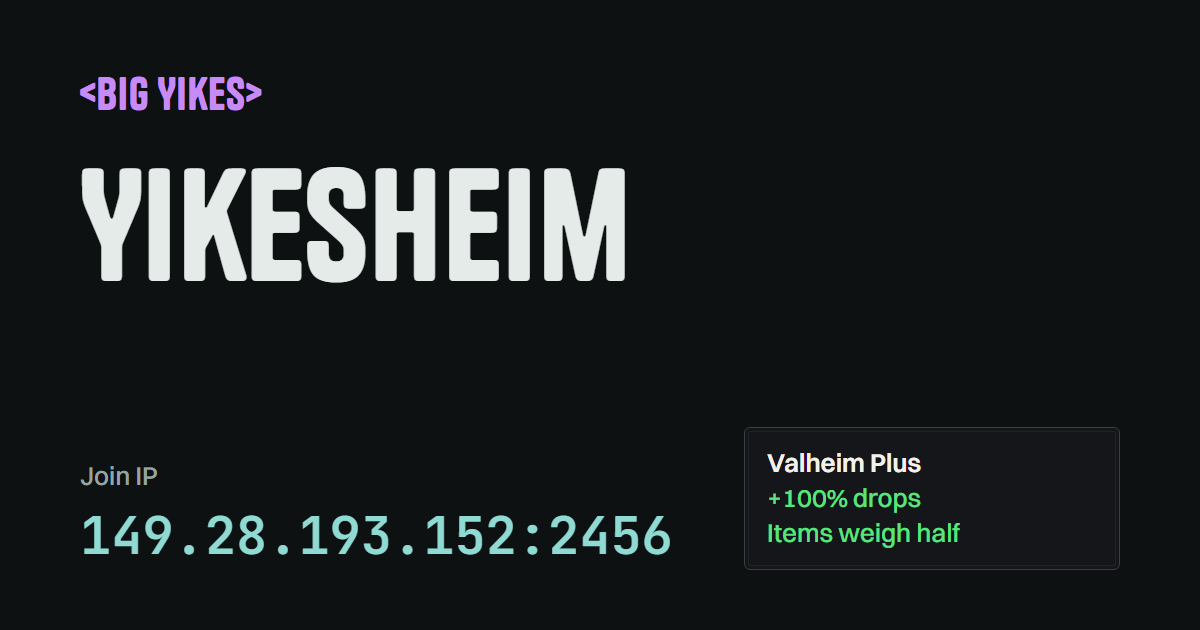
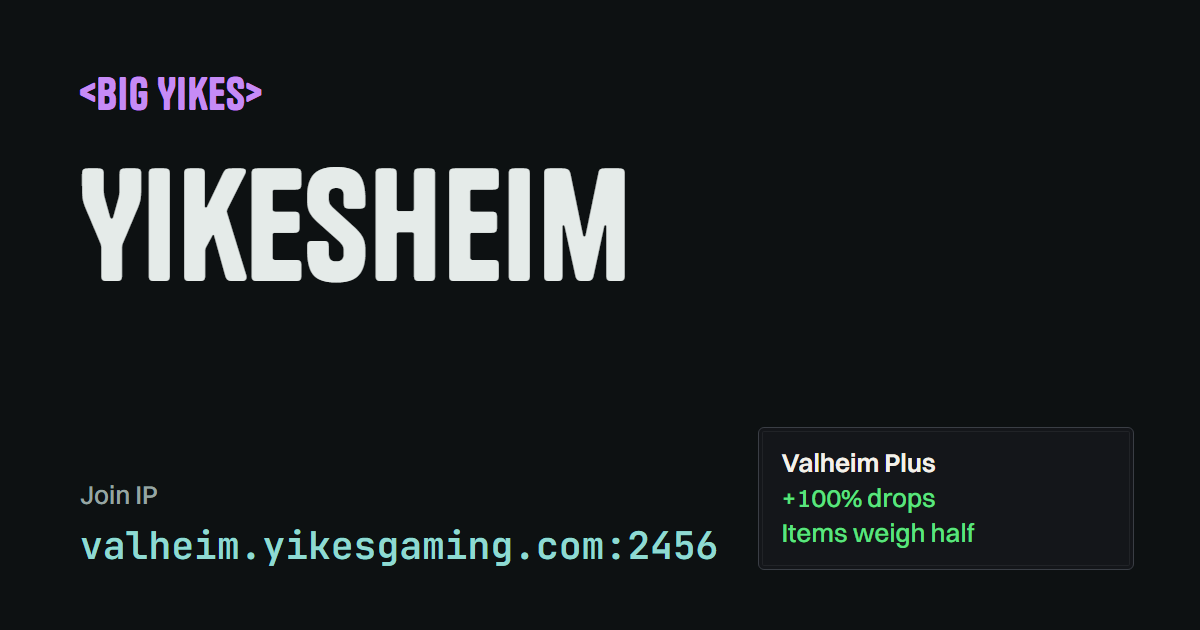
Use valheim.yikesgaming.com:2456 as the server address
- Address card, copy button and preview card use the domain name
- IP kept as a fallback in the FAQ
- Address decode animation scrambles letters and digits

Changed region(s): [[0.0617, 0.7238, 0.8325, 0.9048]]

diff --git a/valheim/index.html b/valheim/index.html
@@ -70,8 +70,8 @@
       </div>
       <div class="field">
         <div class="label" id="addr-label">Server address</div>
-        <div class="value" aria-labelledby="addr-label" data-scramble>149.28.193.152:2456</div>
-        <button class="btn" type="button" data-copy="149.28.193.152:2456" data-copy-name="Address">
+        <div class="value" aria-labelledby="addr-label" data-scramble>valheim.yikesgaming.com:2456</div>
+        <button class="btn" type="button" data-copy="valheim.yikesgaming.com:2456" data-copy-name="Address">
           <svg class="icon" aria-hidden="true" viewBox="0 0 24 24"><g fill="none" stroke="currentColor" stroke-linecap="round" stroke-linejoin="round" stroke-width="2"><path d="M7 9.667A2.667 2.667 0 0 1 9.667 7h8.666A2.667 2.667 0 0 1 21 9.667v8.666A2.667 2.667 0 0 1 18.333 21H9.667A2.667 2.667 0 0 1 7 18.333z"/><path d="M4.012 16.737A2 2 0 0 1 3 15V5c0-1.1.9-2 2-2h10c.75 0 1.158.385 1.5 1"/></g></svg>
           Copy
           <template><svg class="icon" aria-hidden="true" viewBox="0 0 24 24"><path fill="none" stroke="currentColor" stroke-linecap="round" stroke-linejoin="round" stroke-width="2" d="m5 12l5 5L20 7"/></svg> Copied</template>
@@ -144,6 +144,10 @@
     <details>
       <summary>"Incompatible version"<svg class="icon" aria-hidden="true" viewBox="0 0 24 24"><path fill="none" stroke="currentColor" stroke-linecap="round" stroke-linejoin="round" stroke-width="2" d="m6 9l6 6l6-6"/></svg></summary>
       <div><p>Steam hasn't finished updating your Valheim, or Valheim just got a patch. After a patch, Valheim Plus can take a few days to catch up. The host will post in Discord when the server and installer are updated.</p></div>
+    </details>
+    <details>
+      <summary>It can't find the server<svg class="icon" aria-hidden="true" viewBox="0 0 24 24"><path fill="none" stroke="currentColor" stroke-linecap="round" stroke-linejoin="round" stroke-width="2" d="m6 9l6 6l6-6"/></svg></summary>
+      <div><p>Check the address ends in <span class="mono">:2456</span>. If the name still doesn't work, use the server's IP instead: <span class="mono">149.28.193.152:2456</span>. It's the same server.</p></div>
     </details>
     <details>
       <summary>"Invalid password"<svg class="icon" aria-hidden="true" viewBox="0 0 24 24"><path fill="none" stroke="currentColor" stroke-linecap="round" stroke-linejoin="round" stroke-width="2" d="m6 9l6 6l6-6"/></svg></summary>

diff --git a/tools/og-valheim.html b/tools/og-valheim.html
@@ -21,7 +21,7 @@
   .mark { font-family: "Tanker", Impact, sans-serif; font-size: 44px; color: #C68BF6; letter-spacing: .02em; }
   h1 { font-family: "Tanker", Impact, sans-serif; font-weight: 400; font-size: 150px; line-height: .92; margin: 34px 0 0; letter-spacing: .005em; }
   .bottom { display: flex; align-items: flex-end; justify-content: space-between; gap: 40px; }
-  .addr { font-family: "JetBrains Mono", monospace; font-weight: 600; font-size: 52px; color: #8FDAD2; }
+  .addr { font-family: "JetBrains Mono", monospace; font-weight: 600; font-size: 38px; color: #8FDAD2; }
   .addr small { display: block; font-family: "Switzer", sans-serif; font-weight: 500; font-size: 26px; color: #97A5A2; margin-bottom: 8px; }
   .tip {
     background: #14161A; border: 1px solid #3A3E45; border-radius: 6px;
@@ -36,7 +36,7 @@
   <div class="mark">&lt;Big Yikes&gt;</div>
   <h1>Yikesheim</h1>
   <div class="bottom">
-    <div class="addr"><small>Join IP</small>149.28.193.152:2456</div>
+    <div class="addr"><small>Join IP</small>valheim.yikesgaming.com:2456</div>
     <div class="tip"><b>Valheim Plus</b><span>+100% drops<br>Items weigh half</span></div>
   </div>
 </body>

diff --git a/assets/js/site.js b/assets/js/site.js
@@ -41,7 +41,7 @@
 
     var addr = document.querySelector('[data-scramble]');
     if (addr && window.ScrambleTextPlugin) {
-      tl.to(addr, { duration: 0.8, scrambleText: { text: addr.textContent, chars: '0123456789', revealDelay: 0.15, speed: 0.7 } }, 0.75);
+      tl.to(addr, { duration: 0.8, scrambleText: { text: addr.textContent, chars: 'abcdefghijklmnopqrstuvwxyz0123456789', revealDelay: 0.15, speed: 0.7 } }, 0.75);
     }
   }
 
